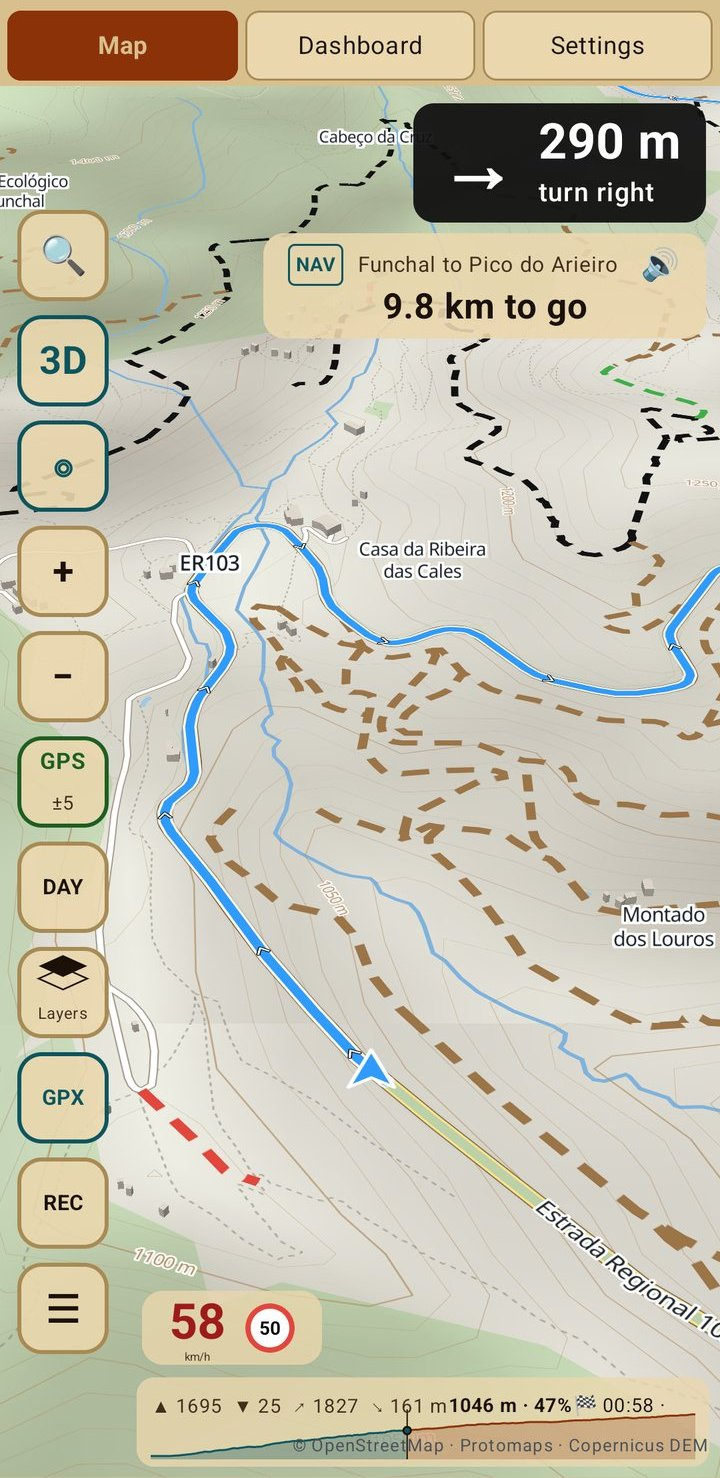
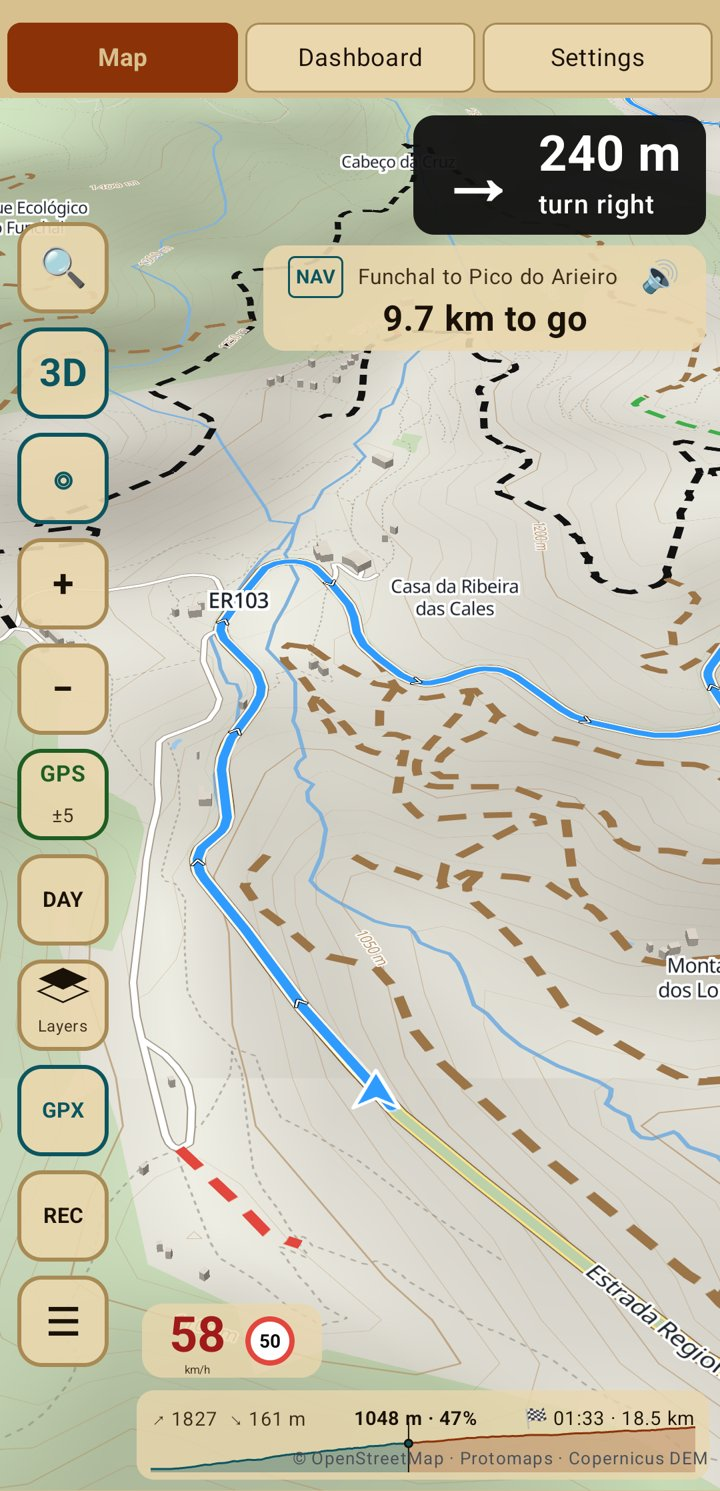
Docs: weather, search and regions screenshots
Claude-Session: https://claude.ai/code/session_01Ky7FWDUDUpXWgUC2vXwTEw

Changed region(s): [[0.0, 0.0, 1.0, 0.9959], [0.9778, 0.9648, 1.0, 1.0], [0.4583, 0.8092, 0.5194, 0.8403]]

diff --git a/docs/how-to/weather.md b/docs/how-to/weather.md
@@ -15,6 +15,8 @@ bar** in the track box menu.
 
 ## Weather on the map
 
+![The weather layer: temperature tint, wind arrows and values](../img/app/weather.jpg)
+
 Tap the layers button and switch on **Weather**. The map is tinted by **temperature**, from
 blue (cold) through green to red (hot), with **wind arrows** across the whole screen: each
 points where the wind blows to, larger and redder the stronger it is. Values are written on

diff --git a/docs/how-to/download-maps.md b/docs/how-to/download-maps.md
@@ -3,7 +3,7 @@
 NavExpress keeps its maps on the phone, so the map, the speed limits and (with offline
 routing) the route all work with no signal.
 
-![Map settings: Regions is the last tab](../img/app/settings-maps.jpg)
+![Regions in Map settings](../img/app/map-regions.jpg)
 
 ## Download a region
 

diff --git a/docs/how-to/go-somewhere.md b/docs/how-to/go-somewhere.md
@@ -1,5 +1,7 @@
 # Go somewhere
 
+![Searching for a place](../img/app/search.jpg)
+
 ## Search an address or a place
 
 1. Tap **🔍** on the button bar.
